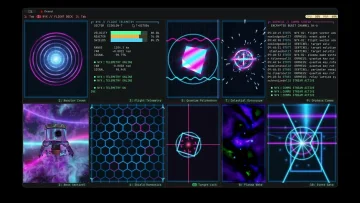
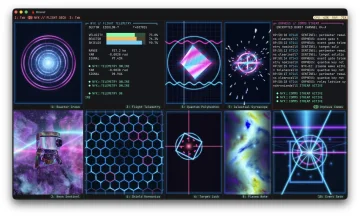
Simplify Rezonality portfolio card

diff --git a/themes/hugo-creative-portfolio-theme/layouts/partials/portfolio_tile.html b/themes/hugo-creative-portfolio-theme/layouts/partials/portfolio_tile.html
@@ -8,16 +8,7 @@
           {{ $card360 := printf "%s_360.webp" $cardBase }}
           {{ $card720 := printf "%s_720.webp" $cardBase }}
           {{ $cardImage := imageConfig (printf "static/%s" $card720) }}
-          {{ if and (eq $page.Section "portfolio") $page.Params.cardvideo }}
-          <div class="box-masonry-image box-masonry-video" data-youtube-id="{{ $page.Params.cardvideo }}">
-              <a href="{{ $page.Permalink }}" class="box-masonry-video-project" aria-label="View {{ $page.Title }} project">
-                  <img src="{{ $card720 | absURL }}" srcset="{{ $card360 | absURL }} 360w, {{ $card720 | absURL }} 720w" sizes="(min-width: 1200px) 25vw, (min-width: 992px) 33vw, (min-width: 768px) 50vw, 100vw" width="{{ $cardImage.Width }}" height="{{ $cardImage.Height }}" loading="{{ $loading }}" decoding="async"{{ if $priority }} fetchpriority="high"{{ end }} alt="{{ $page.Title }}">
-              </a>
-              <a href="https://youtu.be/{{ $page.Params.cardvideo }}" class="box-masonry-video-play-button" aria-label="Play {{ $page.Title }} video" data-video-title="{{ $page.Title }} video">
-                  <i class="fa fa-play" aria-hidden="true"></i>
-              </a>
-          </div>
-          {{ else if eq $page.Section "photos" }}
+          {{ if eq $page.Section "photos" }}
           <a href="{{ $page.Params.image | absURL }}" class="box-masonry-image photo-lightbox-link" data-toggle="lightbox" data-gallery="photos" aria-label="View {{ $page.Title }} full size">
               <img src="{{ $card720 | absURL }}" srcset="{{ $card360 | absURL }} 360w, {{ $card720 | absURL }} 720w" sizes="(min-width: 1200px) 25vw, (min-width: 992px) 33vw, (min-width: 768px) 50vw, 100vw" width="{{ $cardImage.Width }}" height="{{ $cardImage.Height }}" loading="{{ $loading }}" decoding="async"{{ if $priority }} fetchpriority="high"{{ end }} alt="{{ $page.Title }}" class="img-responsive">
           </a>

diff --git a/themes/hugo-creative-portfolio-theme/static/css/custom.css b/themes/hugo-creative-portfolio-theme/static/css/custom.css
@@ -43,80 +43,6 @@
   box-shadow: inset 4px 0 0 rgba(72, 144, 198, 0.58);
 }
 
-.box-masonry .box-masonry-video {
-  aspect-ratio: 16 / 9;
-  min-height: 0;
-  background: #000;
-}
-
-.box-masonry-video-project {
-  display: block;
-  position: absolute;
-  inset: 0;
-  width: 100%;
-  height: 100%;
-  overflow: hidden;
-  background: #000;
-}
-
-.box-masonry-video-project img {
-  display: block;
-  width: 100%;
-  height: 100%;
-  object-fit: cover;
-  transition: filter 180ms ease, transform 180ms ease;
-}
-
-.box-masonry-video-play-button {
-  position: absolute;
-  top: 50%;
-  left: 50%;
-  display: flex;
-  width: 58px;
-  height: 58px;
-  align-items: center;
-  justify-content: center;
-  border: 2px solid rgba(255, 255, 255, 0.9);
-  border-radius: 50%;
-  background: rgba(0, 0, 0, 0.7);
-  color: #fff;
-  font-size: 20px;
-  text-decoration: none;
-  transform: translate(-50%, -50%);
-  transition: background 180ms ease, transform 180ms ease;
-  z-index: 1;
-}
-
-.box-masonry-video-play-button .fa {
-  margin-left: 3px;
-}
-
-.box-masonry-video-project:hover img {
-  filter: brightness(0.82);
-  transform: scale(1.01);
-}
-
-.box-masonry-video-play-button:hover,
-.box-masonry-video-play-button:focus {
-  background: rgba(32, 101, 161, 0.9);
-  color: #fff;
-  text-decoration: none;
-  transform: translate(-50%, -50%) scale(1.05);
-}
-
-.box-masonry-video-project:focus,
-.box-masonry-video-play-button:focus {
-  outline: 3px solid #4d90fe;
-  outline-offset: -3px;
-}
-
-.box-masonry-video iframe {
-  display: block;
-  width: 100%;
-  height: 100%;
-  border: 0;
-}
-
 .photo-lightbox-link {
   cursor: zoom-in;
 }

diff --git a/themes/hugo-creative-portfolio-theme/static/js/front.js b/themes/hugo-creative-portfolio-theme/static/js/front.js
@@ -6,37 +6,12 @@ $(function () {
     utils();
     highlightCurrentPage();
     makeImagesResponsive();
-    portfolioVideos();
 });
 function highlightCurrentPage() {
   $("a[href='" + location.href + "']").parent().addClass("active");
 }
 function makeImagesResponsive() {
     $("img").addClass("img-responsive");
-}
-function portfolioVideos() {
-    $('.box-masonry-video-play-button').on('click', function (event) {
-        event.preventDefault();
-        event.stopPropagation();
-
-        var playLink = this;
-        var container = playLink.parentNode;
-        var videoId = container.getAttribute('data-youtube-id');
-        if (!/^[A-Za-z0-9_-]{11}$/.test(videoId)) {
-            return;
-        }
-
-        var iframe = document.createElement('iframe');
-        iframe.src = 'https://www.youtube-nocookie.com/embed/' + encodeURIComponent(videoId) + '?autoplay=1&rel=0';
-        iframe.title = playLink.getAttribute('data-video-title');
-        iframe.allow = 'accelerometer; autoplay; clipboard-write; encrypted-media; gyroscope; picture-in-picture; web-share';
-        iframe.referrerPolicy = 'strict-origin-when-cross-origin';
-        iframe.allowFullscreen = true;
-
-        container.innerHTML = '';
-        container.appendChild(iframe);
-        $('.grid').masonry('layout');
-    });
 }
 /* =========================================
  *  carousels

diff --git a/content/portfolio/jorvik.md b/content/portfolio/jorvik.md
@@ -5,7 +5,6 @@ image = "img/portfolio/jorvik/live_code_sf_dashboard.jpg"
 date = "2023-09-13T18:18:22+05:32"
 title = "Rezonality"
 featured = true
-cardvideo = "h7kWxdjfH8g"
 weight = 0
 +++
 
